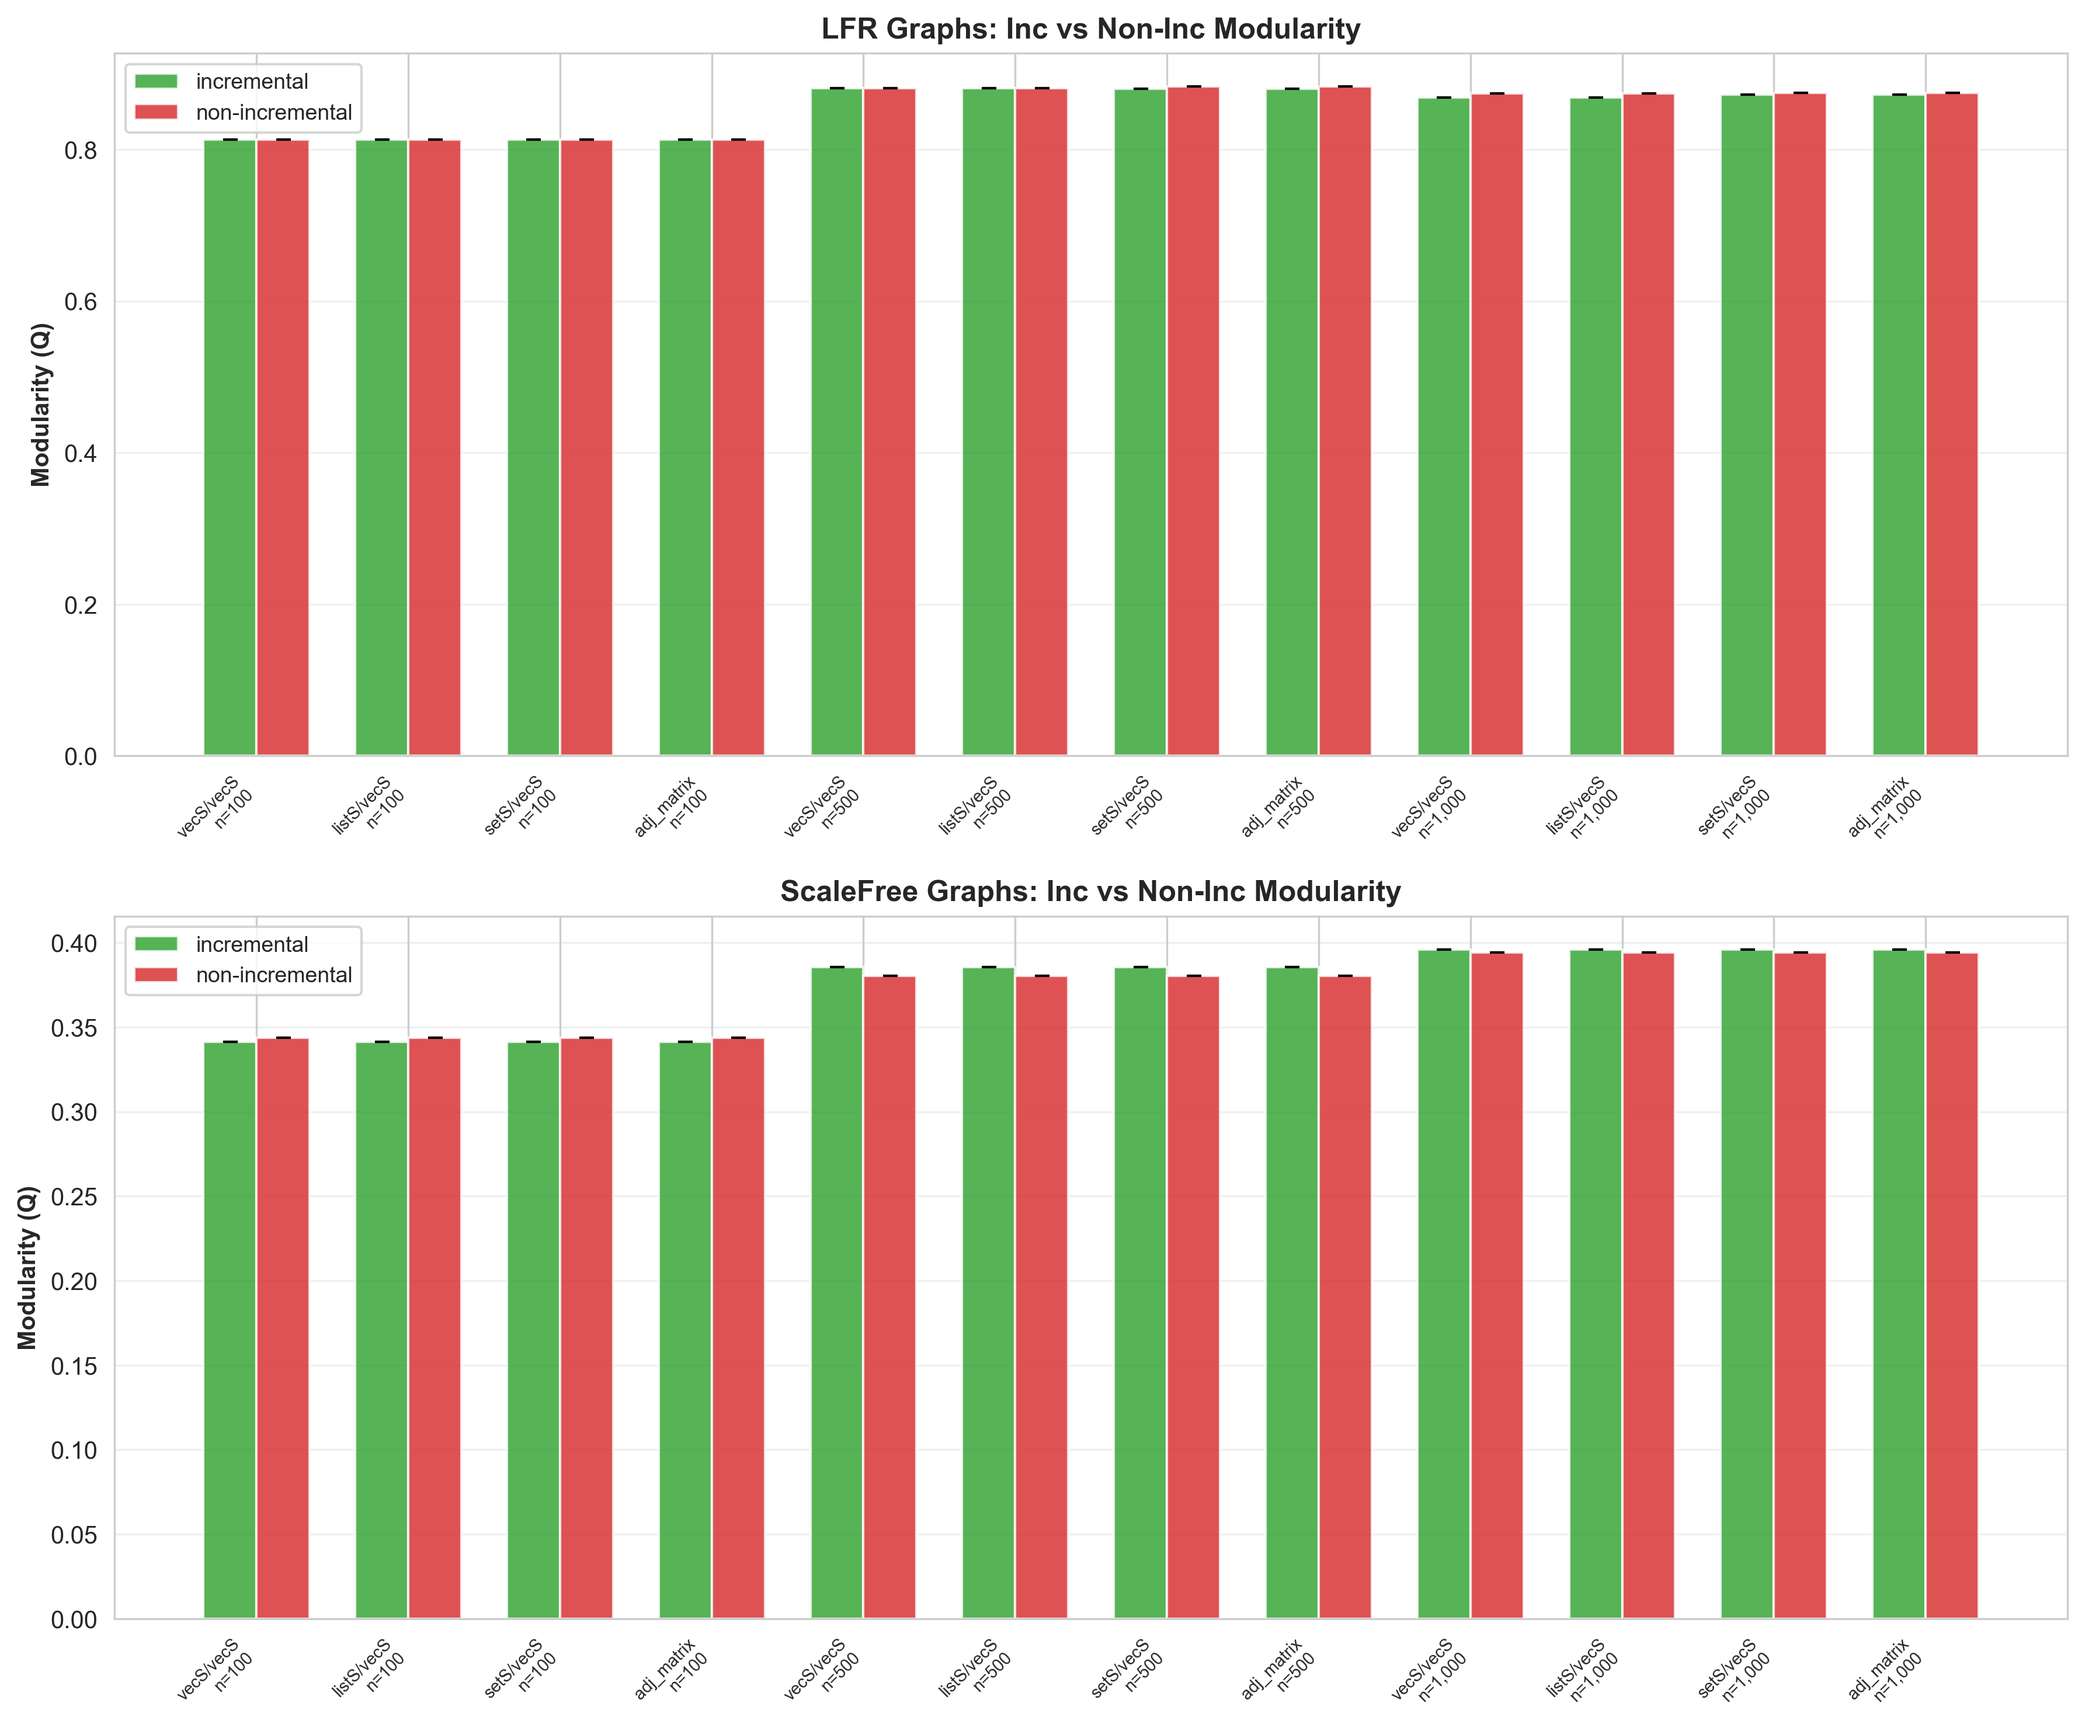
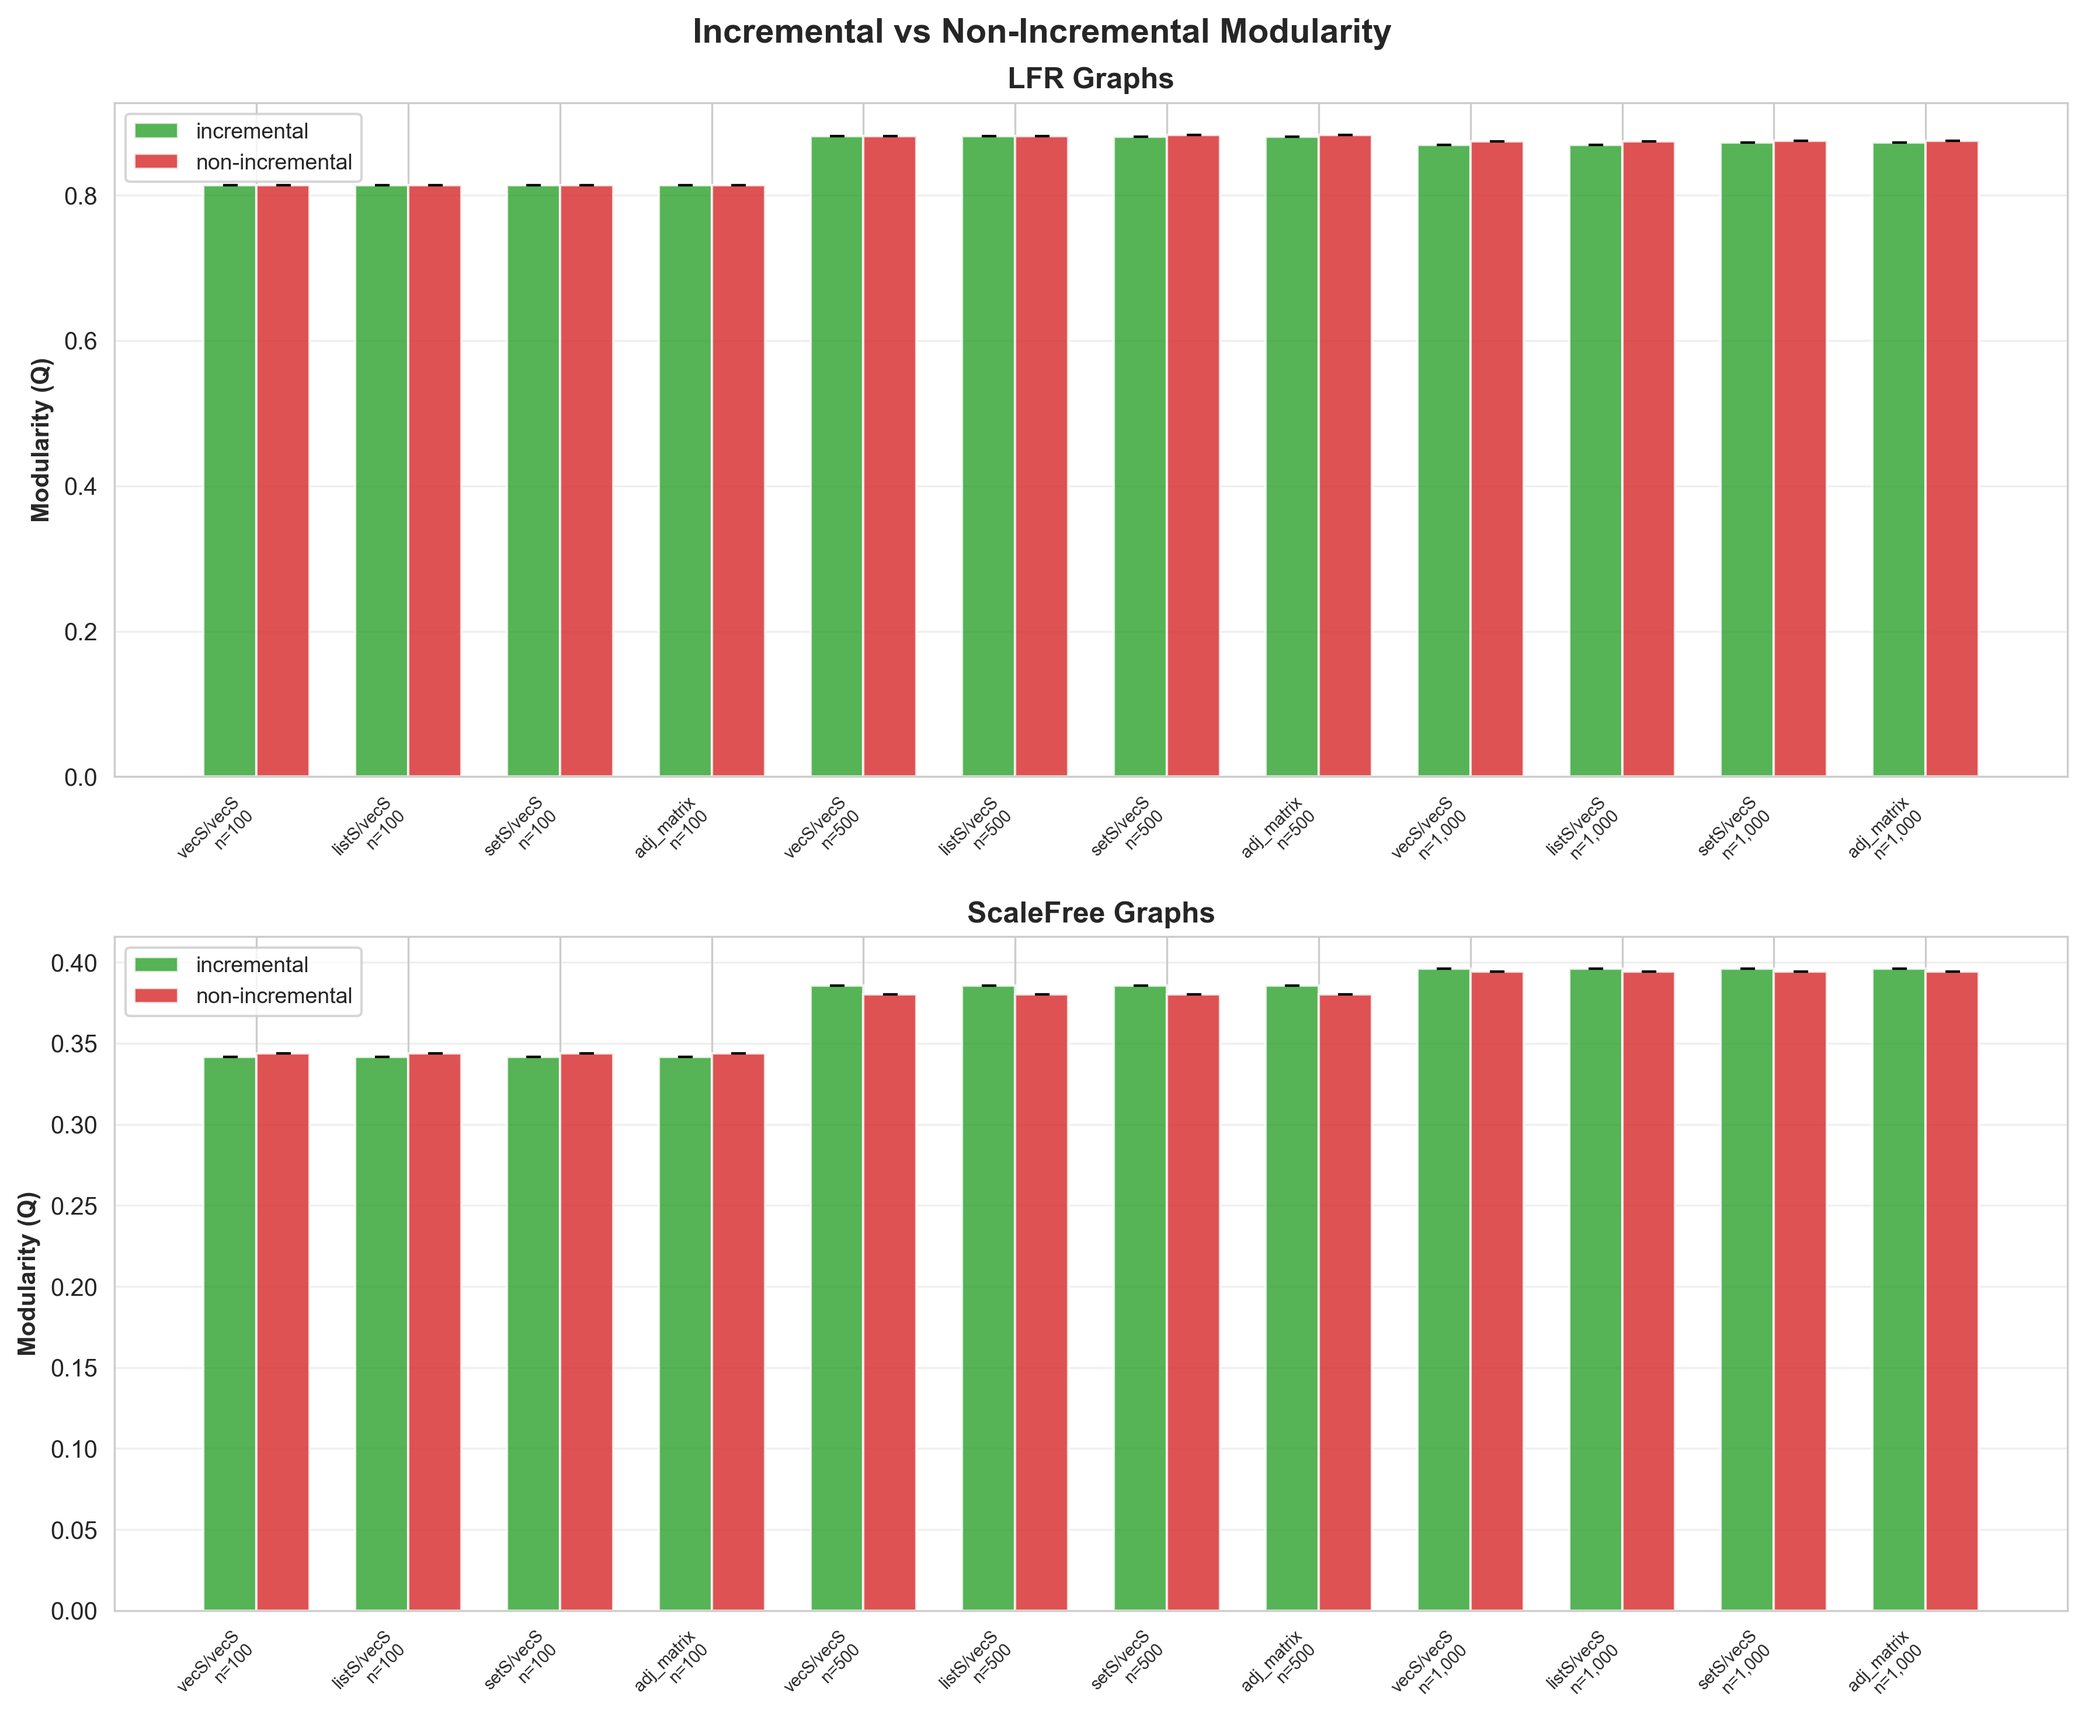
cleanup

diff --git a/louvain/scripts/visualize.py b/louvain/scripts/visualize.py
@@ -181,58 +181,70 @@ def _bgl_vs_refs(df, filename):
 # ── runtime plots ────────────────────────────────────────────────────────
 
 
-def _runtime_scalability(df_rt, graph_type, filename, impls=None):
-    """Log-log runtime vs nodes for one graph type."""
+def _runtime_scalability(df_rt, filename, impls=None):
+    """Log-log runtime vs nodes, side-by-side panels for each graph type."""
     if impls is None:
         impls = _ordered(ALL_IMPLEMENTATIONS, df_rt['Implementation'])
     else:
         impls = _ordered(impls, df_rt['Implementation'])
-    dt = df_rt[df_rt['GraphType'] == graph_type]
 
-    markers = ['o', 's', 'D', '^', 'v', 'P', 'X']
-    fig, ax = plt.subplots(figsize=(8, 5))
-    for i, impl in enumerate(impls):
-        di = dt[dt['Implementation'] == impl].dropna(subset=['Time']).sort_values('Nodes')
-        if di.empty:
-            continue
-        ax.errorbar(di['Nodes'], di['Time'], yerr=di['Time_Std'],
-                    marker=markers[i % len(markers)], label=impl, capsize=5,
-                    linewidth=2, color=IMPL_COLORS.get(impl, '#333'))
-    ax.set_xlabel('Number of Nodes', fontweight='bold')
-    ax.set_ylabel('Time (seconds)', fontweight='bold')
-    ax.set_title(f'{graph_type} Graphs: Runtime Scalability', fontsize=12, fontweight='bold')
-    ax.legend(loc='best', fontsize=9)
-    ax.grid(True, alpha=0.3)
-    ax.set_xscale('log'); ax.set_yscale('log')
+    graph_types = [gt for gt in ['LFR', 'ScaleFree'] if gt in df_rt['GraphType'].values]
+    fig, axes = plt.subplots(1, len(graph_types), figsize=(7 * len(graph_types), 5),
+                             sharey=True, squeeze=False)
+
+    for idx, gt in enumerate(graph_types):
+        ax = axes[0][idx]
+        dt = df_rt[df_rt['GraphType'] == gt]
+        for i, impl in enumerate(impls):
+            di = dt[dt['Implementation'] == impl].dropna(subset=['Time']).sort_values('Nodes')
+            if di.empty:
+                continue
+            ax.errorbar(di['Nodes'], di['Time'], yerr=di['Time_Std'],
+                        marker='|', markersize=6, label=impl, capsize=3,
+                        linewidth=1, color=IMPL_COLORS.get(impl, '#333'))
+        ax.set_xlabel('Number of Nodes', fontweight='bold')
+        ax.set_title(f'{gt} Graphs', fontsize=12, fontweight='bold')
+        ax.legend(loc='best', fontsize=9)
+        ax.grid(True, alpha=0.3)
+        ax.set_xscale('log'); ax.set_yscale('log')
+
+    axes[0][0].set_ylabel('Time (seconds)', fontweight='bold')
+    fig.suptitle('Runtime Scalability', fontsize=14, fontweight='bold')
     plt.tight_layout()
     _save(fig, filename)
 
 
-def _communities_detected(df_rt, graph_type, filename, impls=None):
-    """Communities detected vs nodes for one graph type."""
+def _communities_detected(df_rt, filename, impls=None):
+    """Communities detected vs nodes, side-by-side panels for each graph type."""
     if impls is None:
         impls = _ordered(ALL_IMPLEMENTATIONS, df_rt['Implementation'])
     else:
         impls = _ordered(impls, df_rt['Implementation'])
-    dt = df_rt[df_rt['GraphType'] == graph_type]
-    if 'Communities' not in dt.columns:
+    if 'Communities' not in df_rt.columns:
         return
 
-    markers = ['o', 's', 'D', '^', 'v', 'P', 'X']
-    fig, ax = plt.subplots(figsize=(8, 5))
-    for i, impl in enumerate(impls):
-        di = dt[dt['Implementation'] == impl].dropna(subset=['Communities']).sort_values('Nodes')
-        if di.empty:
-            continue
-        ax.errorbar(di['Nodes'], di['Communities'], yerr=di['Communities_Std'],
-                    marker=markers[i % len(markers)], label=impl, capsize=5,
-                    linewidth=2, color=IMPL_COLORS.get(impl, '#333'))
-    ax.set_xlabel('Number of Nodes', fontweight='bold')
-    ax.set_ylabel('Communities Found', fontweight='bold')
-    ax.set_title(f'{graph_type} Graphs: Communities Detected', fontsize=12, fontweight='bold')
-    ax.legend(loc='best', fontsize=9)
-    ax.grid(True, alpha=0.3)
-    ax.set_xscale('log')
+    graph_types = [gt for gt in ['LFR', 'ScaleFree'] if gt in df_rt['GraphType'].values]
+    fig, axes = plt.subplots(1, len(graph_types), figsize=(7 * len(graph_types), 5),
+                             sharey=True, squeeze=False)
+
+    for idx, gt in enumerate(graph_types):
+        ax = axes[0][idx]
+        dt = df_rt[df_rt['GraphType'] == gt]
+        for i, impl in enumerate(impls):
+            di = dt[dt['Implementation'] == impl].dropna(subset=['Communities']).sort_values('Nodes')
+            if di.empty:
+                continue
+            ax.errorbar(di['Nodes'], di['Communities'], yerr=di['Communities_Std'],
+                        marker='|', markersize=6, label=impl, capsize=3,
+                        linewidth=1, color=IMPL_COLORS.get(impl, '#333'))
+        ax.set_xlabel('Number of Nodes', fontweight='bold')
+        ax.set_title(f'{gt} Graphs', fontsize=12, fontweight='bold')
+        ax.legend(loc='best', fontsize=9)
+        ax.grid(True, alpha=0.3)
+        ax.set_xscale('log')
+
+    axes[0][0].set_ylabel('Communities Found', fontweight='bold')
+    fig.suptitle('Communities Detected vs Graph Size', fontsize=14, fontweight='bold')
     plt.tight_layout()
     _save(fig, filename)
 
@@ -246,7 +258,6 @@ def _speedup_over_igraph(df_rt, filename):
 
     graph_types = [gt for gt in ['LFR', 'ScaleFree'] if gt in df_rt['GraphType'].values]
     fig, axes = plt.subplots(1, len(graph_types), figsize=(7 * len(graph_types), 5), sharey=True, squeeze=False)
-    markers = ['o', 's', 'D', '^', 'v', 'P', 'X']
 
     for idx, gt in enumerate(graph_types):
         ax = axes[0][idx]
@@ -258,7 +269,7 @@ def _speedup_over_igraph(df_rt, filename):
             if merged.empty:
                 continue
             ax.plot(merged['Nodes'], merged['ig_time'] / merged['impl_time'],
-                    marker=markers[j % len(markers)], linewidth=2,
+                    marker='|', markersize=6, linewidth=1,
                     color=IMPL_COLORS.get(impl, '#333'), label=impl)
         ax.axhline(y=1.0, color='grey', linestyle='--', linewidth=1, alpha=0.7)
         ax.set_xscale('log')
@@ -300,9 +311,8 @@ if os.path.exists('results/runtime.csv'):
     print(f"Loaded {len(df_rt)} rows from results/runtime.csv")
     print(f"Implementations: {', '.join(df_rt['Implementation'].unique())}")
     print()
-    for gt in ['LFR', 'ScaleFree']:
-        _runtime_scalability(df_rt, gt, f'results/runtime_{gt.lower()}.png')
-        _communities_detected(df_rt, gt, f'results/communities_{gt.lower()}.png')
+    _runtime_scalability(df_rt, 'results/runtime.png')
+    _communities_detected(df_rt, 'results/communities.png')
     _speedup_over_igraph(df_rt, 'results/speedup.png')
 
 # ── incremental vs non-incremental plots ─────────────────────────────────
@@ -321,7 +331,6 @@ def _inc_speedup(df_inc, filename):
     fig, axes = plt.subplots(1, len(graph_types),
                              figsize=(7 * len(graph_types), 5),
                              sharey=True, squeeze=False)
-    markers = ['o', 's', 'D', '^']
     variant_colors = {v: IMPL_COLORS.get(v, f'C{i}') for i, v in enumerate(variants)}
 
     for idx, gt in enumerate(graph_types):
@@ -339,7 +348,7 @@ def _inc_speedup(df_inc, filename):
                 continue
             speedup = merged['t_noinc'] / merged['t_inc']
             ax.plot(merged['Nodes'], speedup,
-                    marker=markers[j % len(markers)], linewidth=2,
+                    marker='|', markersize=6, linewidth=1,
                     color=variant_colors.get(variant, '#333'), label=variant)
 
         ax.axhline(y=1.0, color='grey', linestyle='--', linewidth=1, alpha=0.7)
@@ -400,11 +409,12 @@ def _inc_runtime(df_inc, filename):
         ax.set_xticks(x)
         ax.set_xticklabels(x_labels, fontsize=7, rotation=45, ha='right')
         ax.set_ylabel('Time (seconds)', fontweight='bold')
-        ax.set_title(f'{gt} Graphs: Inc vs Non-Inc Runtime', fontsize=12, fontweight='bold')
+        ax.set_title(f'{gt} Graphs', fontsize=12, fontweight='bold')
         ax.legend(loc='best', fontsize=9)
         ax.set_yscale('log')
         ax.grid(axis='y', alpha=0.3)
 
+    fig.suptitle('Incremental vs Non-Incremental Runtime', fontsize=14, fontweight='bold')
     plt.tight_layout()
     _save(fig, filename)
 
@@ -452,10 +462,11 @@ def _inc_correctness(df_inc, filename):
         ax.set_xticks(x)
         ax.set_xticklabels(x_labels, fontsize=7, rotation=45, ha='right')
         ax.set_ylabel('Modularity (Q)', fontweight='bold')
-        ax.set_title(f'{gt} Graphs: Inc vs Non-Inc Modularity', fontsize=12, fontweight='bold')
+        ax.set_title(f'{gt} Graphs', fontsize=12, fontweight='bold')
         ax.legend(loc='best', fontsize=9)
         ax.grid(axis='y', alpha=0.3)
 
+    fig.suptitle('Incremental vs Non-Incremental Modularity', fontsize=14, fontweight='bold')
     plt.tight_layout()
     _save(fig, filename)
 

diff --git a/louvain/README.md b/louvain/README.md
@@ -39,17 +39,11 @@ Direct percentage difference between each BGL variant's modularity and each refe
 
 ### Runtime
 
-Wall-clock time vs graph size on LFR benchmark graphs (log-log), measuring how each implementation's runtime scales with realistic community structure.
-![Runtime LFR](results/runtime_lfr.png)
+Wall-clock time vs graph size (log-log) on LFR and scale-free graphs side by side, measuring how each implementation's runtime scales.
+![Runtime](results/runtime.png)
 
-Same scalability measurement on scale-free (Barabási–Albert) graphs, which have a different degree distribution.
-![Runtime ScaleFree](results/runtime_scalefree.png)
-
-Number of communities detected vs graph size on LFR graphs, checking that implementations agree on partition granularity as graphs grow.
-![Communities LFR](results/communities_lfr.png)
-
-Same community count comparison on scale-free graphs.
-![Communities ScaleFree](results/communities_scalefree.png)
+Number of communities detected vs graph size on both graph types, checking that implementations agree on partition granularity as graphs grow.
+![Communities](results/communities.png)
 
 Speedup of each implementation relative to igraph, showing which are faster (>1) or slower (<1) across graph sizes.
 ![Speedup over igraph](results/speedup.png)
